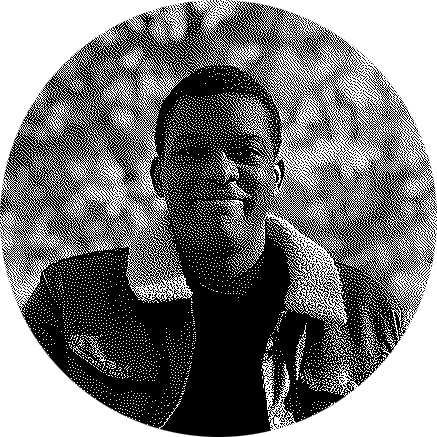
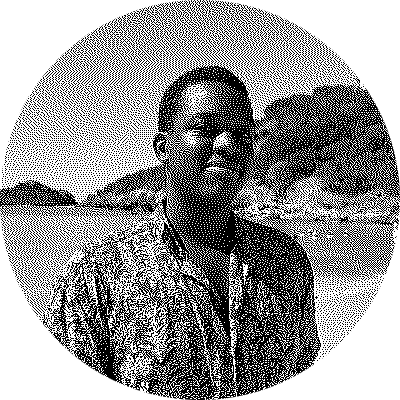
Fix Theme

diff --git a/src/styles/global.css b/src/styles/global.css
@@ -22,8 +22,8 @@
     margin: auto;
     color: black;
     width: auto;
-    max-width: 100%;
     font-size: xx-large;
+    max-width: 100%;
     text-decoration: none;
   }
 
@@ -50,9 +50,9 @@
   h2 {
     margin: auto;
     color: black;
+    font-size: larger;
     width: auto;
     max-width: 100%;
-    font-size: larger;
     text-decoration: none;
   }
 
@@ -189,8 +189,8 @@
   h1 {
     margin: auto;
     color: white;
-    font-size: xx-large;
     width: auto;
+    font-size: xx-large;
     max-width: 100%;
     text-decoration: none;
   }
@@ -234,6 +234,7 @@
 
   a h2:hover {
     color: gray;
+    text-decoration: underline;
   }
 
   a h2:active {
@@ -316,6 +317,11 @@
 
   p a:hover {
     color: gray;
+  }
+
+  p a:active {
+    color: red;
+    text-decoration: underline;
   }
 
   img {
